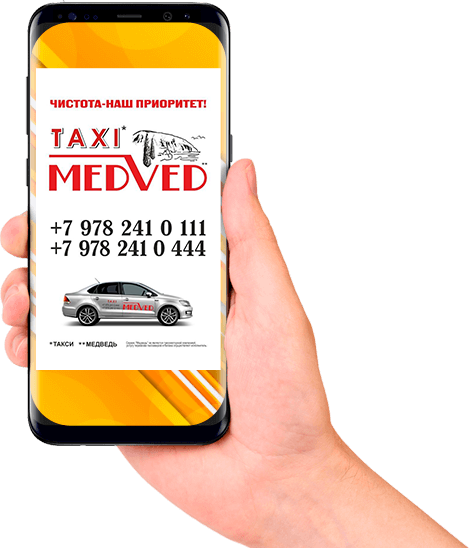
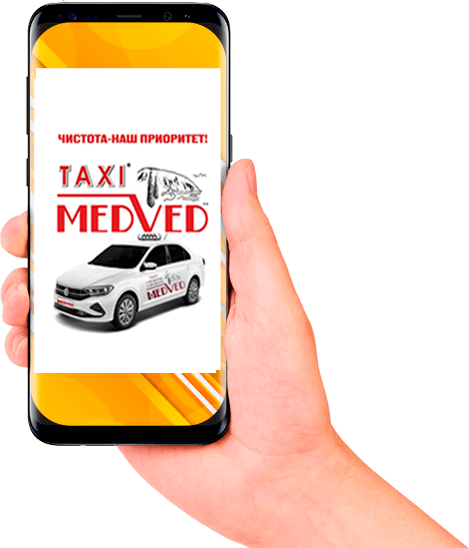
Убрал все кнопки подробнее,поменял фото на телефоне

diff --git a/index.html b/index.html
@@ -10,7 +10,7 @@
 	<meta name="robots" content="index, follow">
 	<meta name="author" content="Арчимозес">
 	<meta name="copyright" content="Все права на сайт и размещенные материалы принадлежат Такси Медведь>
-	<meta http-equiv="X-UA-Compatible" content="IE=Edge" />
+	<meta http-equiv=" X-UA-Compatible" content="IE=Edge" />
 	<meta name="viewport" content="width=device-width, initial-scale=1, maximum-scale=1" />
 	<link rel="shortcut icon" href="img/favicon/favicon.ico" />
 	<!-- 3 нижние строки Chrome, Firefox OS and Opera; Windows Phone; iOS Safari    -->
@@ -99,9 +99,11 @@
 
 
 
+		
 
-
+		
 		<div class="container">
+			<div class="nine_may"> </div>
 			<div class="header_content">
 				<h1 class="header_title">Закажите такси сейчас</h1>
 				<a class="header_phone" href="tel:+79782410111">+7 978 241 0 111</a>
@@ -122,12 +124,14 @@
 					<div class="yellow_left">
 						<div class="yellow_descr">Лучшее в городе</div>
 						<h2 class="yellow_title">чистота-наш приоритет</h2>
-						<div class="yellow_text">Для осуществления перевозок компания Медведь предоставляет современные,комфортабельные  автомобили. В нашей службе нет машин класса эконом, в ненадлежащем виде и состоянии.
-							Чистота во всем - наш главный приоритет!							
+						<div class="yellow_text">Для осуществления перевозок компания Медведь предоставляет
+							современные,комфортабельные автомобили. В нашей службе нет машин класса эконом, в
+							ненадлежащем виде и состоянии.
+							Чистота во всем - наш главный приоритет!
 						</div>
-						<a class="sector_button" href="#">подробнее</a>
+						<!--<a class="sector_button" href="#">подробнее</a>-->
 
-					</div>
+					</div>-->
 					<div class="yellow_right">
 						<div class="bookacab_block">
 							<div class="bookacab_block_title">заказать такси</div>
@@ -138,7 +142,7 @@
 
 
 								<input class="form_book_input" type="text" name="Откуда ехать"
-									placeholder="Где вы находитесь">
+									placeholder="Подача такси">
 								<input class="form_book_input" type="text" name="Куда ехать" placeholder="Куда ехать">
 
 
@@ -148,10 +152,12 @@
 
 								<select id="year" class="form_book_input2 form_book_input_choice2"
 									name="Вид транспорта">
-									<option value="hide">Вид транспорта</option>
-									<option value="седан">Седан</option>
-									<option value="грузовик">Микроавтобус</option>
-									<option value="автобус">Джип</option>
+									<option value="hide">Тариф</option>
+									<option value="седан">ТАРИФ СТАНДАРТ</option>
+									<option value="грузовик">ТАРИФ КОМФОРТ</option>
+									<option value="автобус">ТАРИФ КОМФОРТ +</option>
+									<option value="автобус">ТАРИФ УНИВЕРСАЛ</option>
+									<option value="автобус">ТАРИФ МИНИВЭН</option>
 								</select>
 								<input class="form_book_submit" type="submit" value="отправить">
 							</form>
@@ -171,8 +177,9 @@
 
 						<img class="tarif_items_car" src="img/price_tax.png" alt="такси цены">
 						<div class="tarif_title">тариф Стандарт </div>
-						<div class="tarif_terms">Такси класса Стандарт станет лучшим решением для удобных, быстрых и безопасных перемещений без дополнительных затрат.</div>
-						<div class="tarif_price">от 180 &#8381;/км</div>
+						<div class="tarif_terms">Такси класса Стандарт станет лучшим решением для удобных, быстрых и
+							безопасных перемещений без дополнительных затрат.</div>
+						<div class="tarif_price">165 &#8381; до 1 км</div>
 						<!--<a class="sector_button" href="#">подробнее</a>-->
 					</div>
 
@@ -180,8 +187,9 @@
 
 						<img class="tarif_items_car" src="img/price_tax.png" alt="такси цены">
 						<div class="tarif_title">тариф Комфорт</div>
-						<div class="tarif_terms">Если вы цените удобство и желаете получить удовольствие от поездки, выбирайте такси Комфорт класса.</div>
-						<div class="tarif_price">от 210 &#8381;/км</div>
+						<div class="tarif_terms">Если вы цените удобство и желаете получить удовольствие от поездки,
+							выбирайте такси Комфорт класса.</div>
+						<div class="tarif_price">195 &#8381; до 1 км</div>
 						<!--<a class="sector_button" href="#">подробнее</a>-->
 					</div>
 
@@ -189,32 +197,39 @@
 
 						<img class="tarif_items_car" src="img/price_tax_com+.png" alt="такси цены">
 						<div class="tarif_title">тариф Комфорт +</div>
-						<div class="tarif_terms">Данный тариф предназначен для клиентов, которые ценят свое время и комфорт. Для обеспечения этой услуги выделены самые комфортабельные и презентабельные машины, предназначенные для самых разных мероприятий.
+						<div class="tarif_terms">Данный тариф предназначен для клиентов, которые ценят свое время и
+							комфорт. Для обеспечения этой услуги выделены самые комфортабельные и презентабельные
+							машины, предназначенные для самых разных мероприятий.
 						</div>
-						<div class="tarif_price">от 450 &#8381;/км</div>
+						<div class="tarif_price">430 &#8381; до 1 км</div>
 						<!--<a class="sector_button" href="#">подробнее</a>-->
 					</div>
+				</div>
 
+				<!--<div class="tarif_wrap_2">
 					<div class="tarif_items">
 
 						<img class="tarif_items_car" src="img/universal.png" alt="такси цены">
 						<div class="tarif_title">тариф Универсал</div>
-						<div class="tarif_terms">К данной категории относятся более удобные автомобили, для поездок с багажом, с более просторным багажником и салоном.</div>
-						<div class="tarif_price">от 210 &#8381;/км</div>
-						<!--<a class="sector_button" href="#">подробнее</a>-->
+						<div class="tarif_terms">К данной категории относятся более удобные автомобили, для поездок с
+							багажом, с более просторным багажником и салоном.</div>
+						<div class="tarif_price">195 &#8381; до 1 км</div>
+						<a class="sector_button" href="#">подробнее</a>
 					</div>
 
 					<div class="tarif_items">
 
 						<img class="tarif_items_car" src="img/microbus.png" alt="такси цены">
 						<div class="tarif_title">тариф Минивэн</div>
-						<div class="tarif_terms">Тариф предназначен облегчить Ваши поездки с большими компаниями и с багажом в городе и за городом.
+						<div class="tarif_terms">Тариф предназначен облегчить Ваши поездки с большими компаниями и с
+							багажом в городе и за городом.
 						</div>
-						<div class="tarif_price">от 300 &#8381;/км</div>
-						<!--<a class="sector_button" href="#">подробнее</a>-->
-					</div>
+						<div class="tarif_price">285 &#8381; до 1 км</div>
+						<a class="sector_button" href="#">подробнее</a>
 
-				</div>
+					</div>
+				</div>-->
+
 			</div>
 		</section>
 
@@ -264,7 +279,7 @@
 						</div>
 					</div>
 				</div>
-				<a class="sector_button" href="#">подробнее</a>
+				<!--<a class="sector_button" href="#">подробнее</a>-->
 			</div>
 		</section>
 
@@ -409,8 +424,9 @@
 				<div class="footer_items">
 					<h2 class="footer_title">о нашей фирме</h2>
 					<div class="footer_text">
-						Для осуществления перевозок компания Медведь предоставляет современные,комфортабельные  автомобили. В нашей службе нет машин класса эконом, в ненадлежащем виде и состоянии.
-							Чистота во всем - наш главный приоритет!
+						Для осуществления перевозок компания Медведь предоставляет современные,комфортабельные
+						автомобили. В нашей службе нет машин класса эконом, в ненадлежащем виде и состоянии.
+						Чистота во всем - наш главный приоритет!
 					</div>
 					<ul class="footer_social">
 						<li><a href="#"> <i class="fa fa-facebook" aria-hidden="true"></i></a> </li>
@@ -422,9 +438,7 @@
 				<div class="footer_items">
 					<h2 class="footer_title">скачать</h2>
 					<div class="footer_text">
-						Далеко-далеко за словесными горами в стране, гласных и согласных живут рыбные тексты. Имени одна
-						возвращайся
-						инициал, себя предупреждал запятых использовало наш города.
+						ЗАКАЧАТЬ ПРИЛОЖЕНИЕ БЕСПЛАТНО ПОЛУЧИТЕ ЭКСКЛЮЗИВНОЕ ПРЕДЛОЖЕНИЕ
 					</div>
 					<ul class="footer_dounload">
 						<li>Android пользователи
